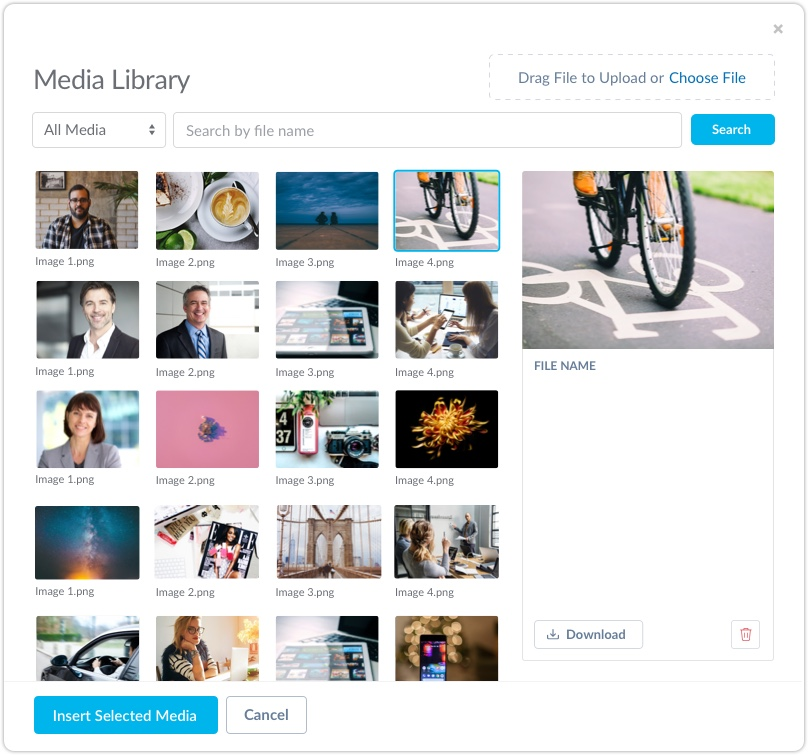
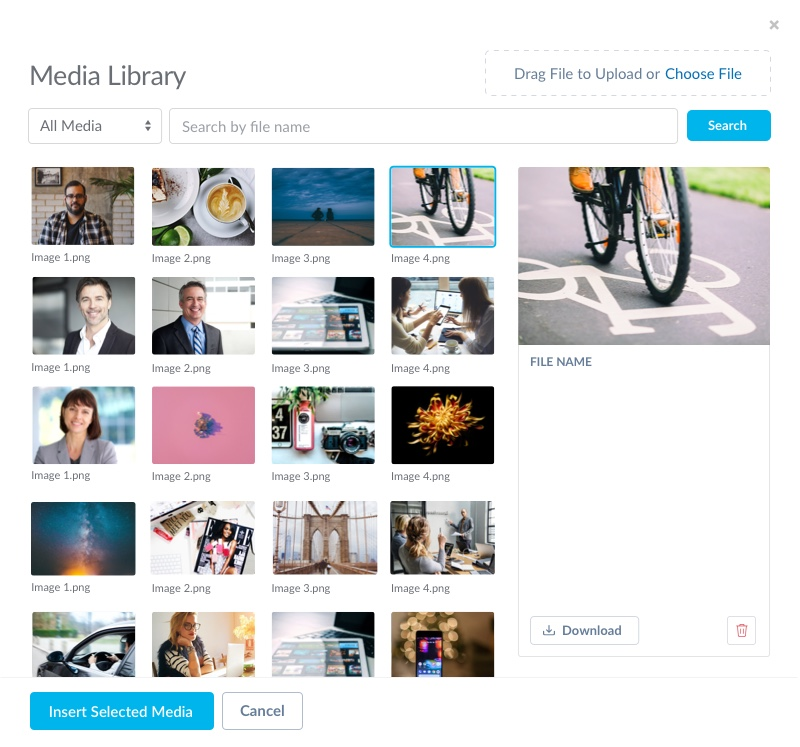
adding media library modals

diff --git a/cms/media-modals/index.html b/cms/media-modals/index.html
@@ -8,7 +8,7 @@ title: Media Modals
 
 
 
-<p>Throughout the Content Management System, media modals are used for inserting, organising and uploading media. These modals incluse the existing modal and the media library modal. </p>
+<p>Throughout the Content Management System, media modals are used for inserting, organising and uploading media. These modals include the existing modal and the media library modal. </p>
 
 <h2>Media Library Modal</h2>
 <p>The Media Library modal appears in a few instances throughout the CMS, it is mainly used for inserting media or choosing featured images on lists items and modular page items.</p>
@@ -18,6 +18,12 @@ title: Media Modals
     <img src="{{ site.baseurl }}/assets/images/cms//new_icons/media_library_example_selected.jpg" alt="Media Library Modal on a modular page" class="last" /img>
     <p class="caption">Media Library modal on a modular page</p>
 </div>
+<div class="imageContainer imageContainer--two padding__50">
+    <img src="{{ site.baseurl }}/assets/images/cms/new_icons/media_library_modal_1.jpg" alt="Media Library Modal on a modular page" /img>
+    <img src="{{ site.baseurl }}/assets/images/cms//new_icons/media_library_modal.jpg" alt="Media Library Modal on a modular page" class="last" /img>
+    <p class="caption">Media Library modal</p>
+</div>
+
 
 <h2>Secondary button</h2>
 <p>The primary button will be accompanied by a secondary button, most of the time this is a cancel button that allows them to discard their changes.</p>
